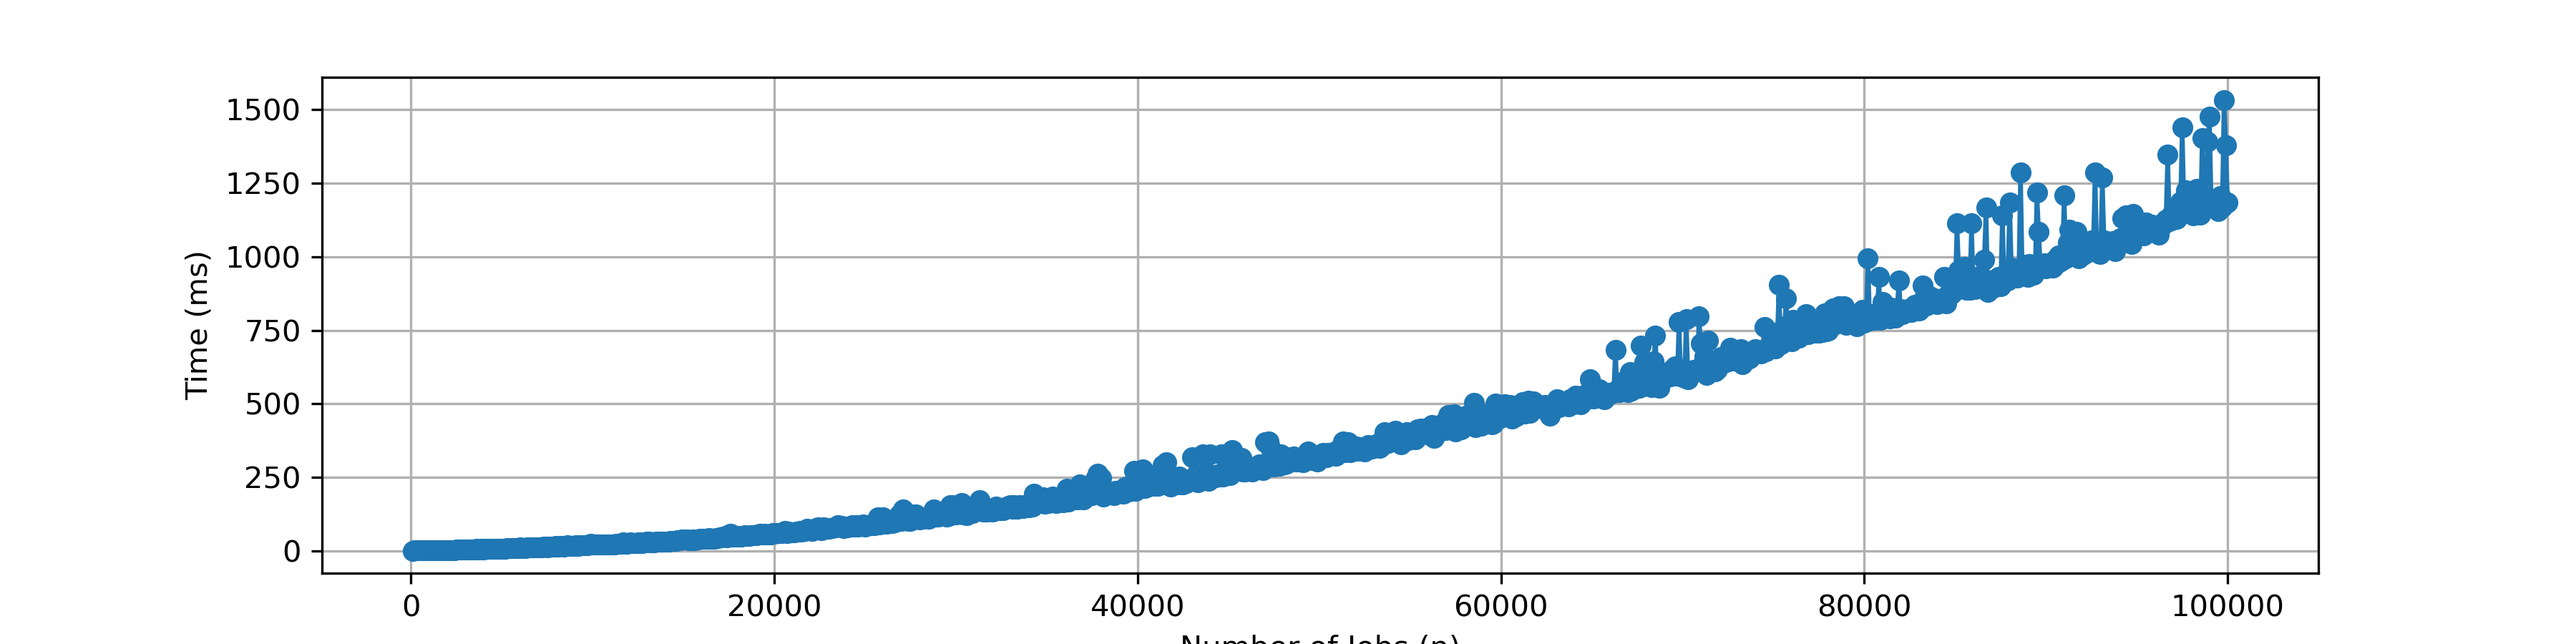
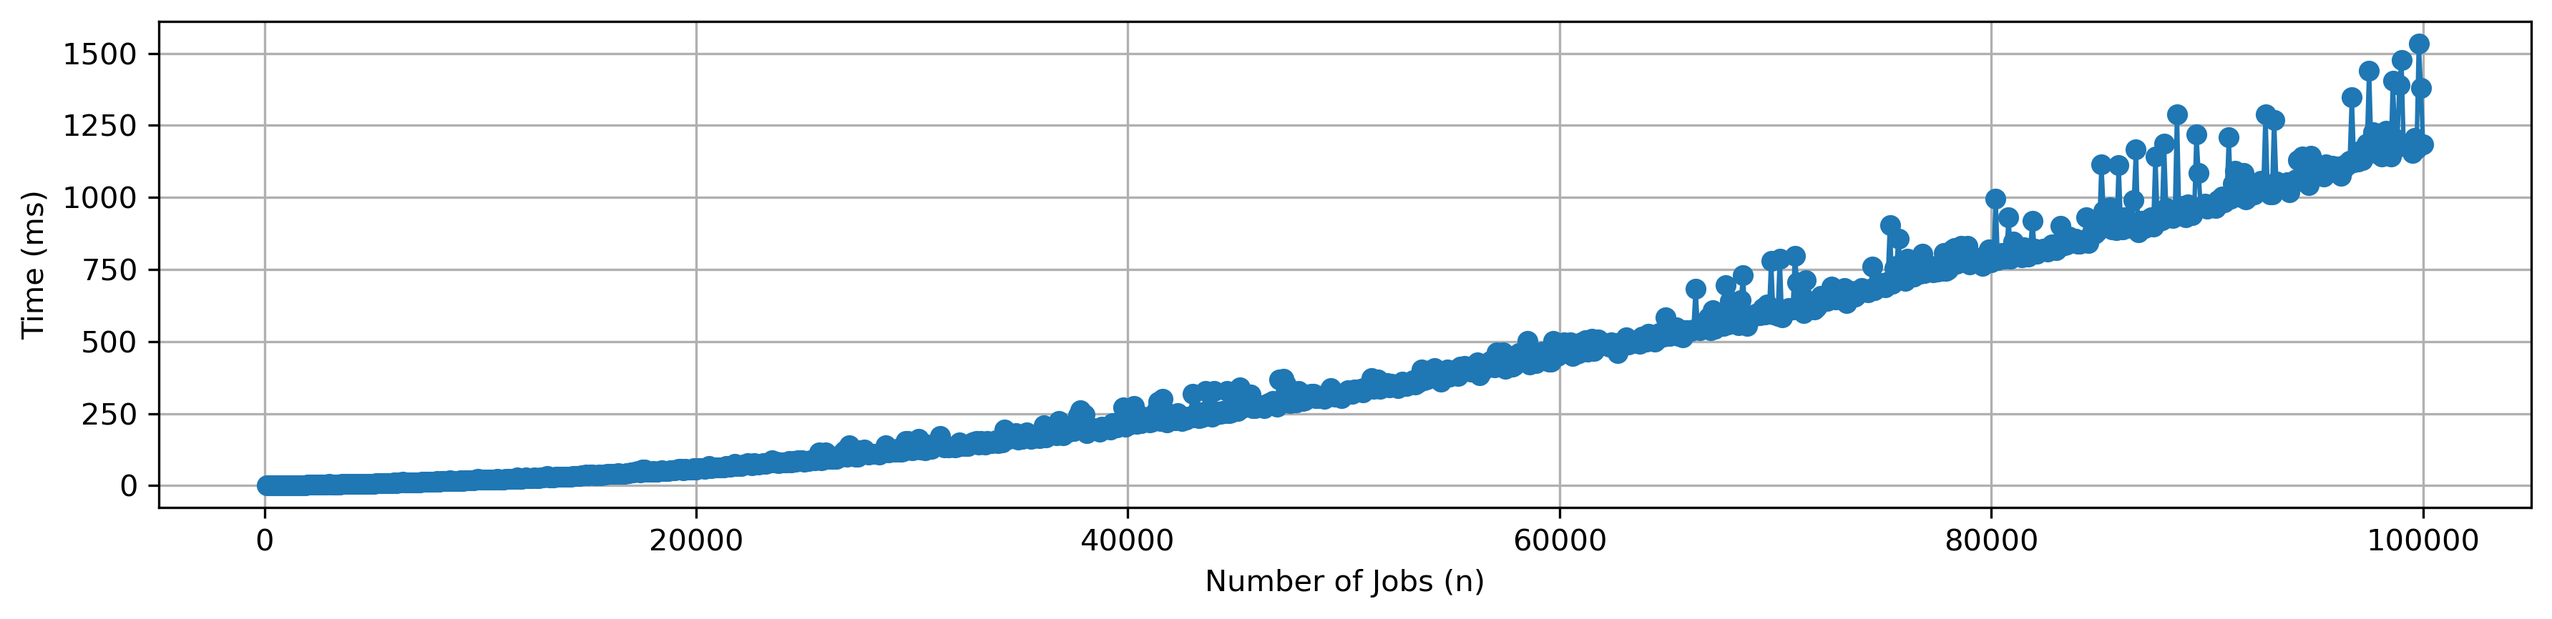
fix axis visibility in benchmark plot

Changed region(s): [[0.0, 0.0312, 0.9958, 0.9665], [0.4357, 0.9977, 0.5601, 1.0], [0.9647, 0.4053, 0.9958, 0.4365]]

diff --git a/scripts/plot_benchmark.py b/scripts/plot_benchmark.py
@@ -8,6 +8,6 @@ plt.xlabel('Number of Jobs (n)')
 plt.ylabel('Time (ms)')
 # plt.title('Benchmark Tower_Schedule')
 plt.grid(True)
-plt.savefig('benchmark/plot_benchmark.png', dpi=300)
 plt.tight_layout()
+plt.savefig('benchmark/plot_benchmark.png', dpi=300, bbox_inches='tight')
 plt.show()
